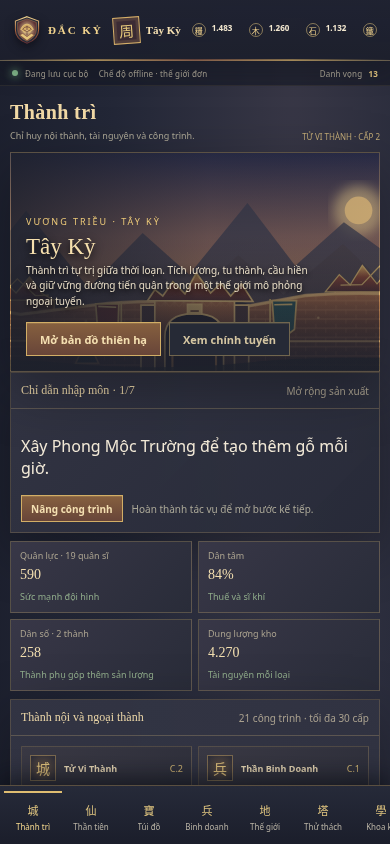
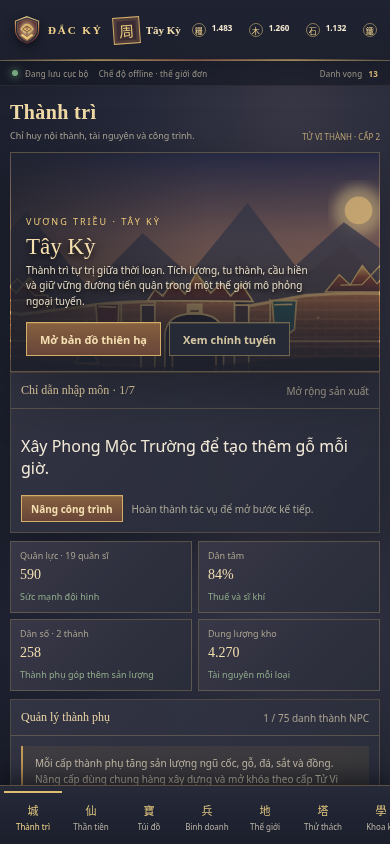
Add managed satellite city upgrades

diff --git a/DackyMobile/src/ui.js b/DackyMobile/src/ui.js
@@ -1,5 +1,5 @@
 import { BUILDINGS, CONTENT_EVIDENCE, HEROES, IMMORTAL_MOUNTAINS, ITEMS, QUESTS, RESOURCE_INFO, TECHNOLOGIES, TROOPS, WORLD_NODES, BUZHOU_FLOORS, TOWER_FLOORS } from './catalog.js';
-import { activeQuest, armyCount, armyPower, formatDuration, formatNumber, heroPower, productionPerHour, questProgress, quoteBuilding, quoteItemPurchase, quoteResearch, quoteTraining, storageCapacity, TAX_POLICIES, TUTORIAL_STEPS } from './engine.js';
+import { activeQuest, armyCount, armyPower, formatDuration, formatNumber, heroPower, productionPerHour, questProgress, quoteBuilding, quoteCityUpgrade, quoteItemPurchase, quoteResearch, quoteTraining, storageCapacity, TAX_POLICIES, TUTORIAL_STEPS } from './engine.js';
 
 export const NAV = [
   ['city','城','Thành trì','Nội thành, kinh tế và hàng đợi'],
@@ -56,7 +56,7 @@ function queueCard(label, q, now, lookupName, glyph) {
 }
 
 function queuePanel(state, now) {
-  const c = queueCard('Xây dựng', state.queues.construction, now, q => `${BUILDINGS.find(b => b.id === q.buildingId)?.name || ''} · cấp ${q.level}`, '營');
+  const c = queueCard('Xây dựng', state.queues.construction, now, q => q.cityId?`${state.cities.find(city=>city.id===q.cityId)?.name||'Thành phụ'} · cấp ${q.level}`:`${BUILDINGS.find(b => b.id === q.buildingId)?.name || ''} · cấp ${q.level}`, '營');
   const t = queueCard('Huấn luyện', state.queues.training, now, q => TROOPS.find(x => x.id === q.troopId)?.name || 'Đạo quân', '兵');
   const r = queueCard('Nghiên cứu', state.queues.research, now, q => `${TECHNOLOGIES.find(x => x.id === q.techId)?.name || ''} · cấp ${q.level}`, '學');
   const m = queueCard('Hành quân', state.queues.march, now, q => WORLD_NODES.find(x => x.id === q.nodeId)?.name || 'Ngoại vực', '騎');
@@ -86,6 +86,17 @@ function tutorialPanel(state) {
     action=button('march','Hành quân tới Thanh Khâu Quan',!count||!!state.queues.march,'button small',`data-node="${step.data.nodeId}" data-troop="${step.data.troopId}" data-count="${count}"`);
   }
   return `<section class="panel tutorial-panel">${subheading(`Chỉ dẫn nhập môn · ${state.tutorialStep+1}/${TUTORIAL_STEPS.length}`,step.title)}<div class="panel-body"><p>${esc(step.description)}</p>${action}<small class="tiny muted" style="margin-left:9px">Hoàn thành tác vụ để mở bước kế tiếp.</small></div></section>`;
+}
+
+function satelliteManagementPanel(state) {
+  const satellites=(state.cities||[]).filter(city=>!city.isCapital);
+  const rows=satellites.map(city=>{
+    const quote=quoteCityUpgrade(state,city.id);
+    const lockedLabel=quote.locked?`Cần Tử Vi Thành cấp ${Math.max(2,Math.ceil(quote.level/2)+1)}`:quote.maxed?'Đạt cấp tối đa':`${costText(quote.cost)} · ${formatDuration(quote.seconds*1000)}`;
+    const contribution=`+${fmt(city.level*25)} lương · ${fmt(city.level*18)} gỗ · ${fmt(city.level*14)} đá · ${fmt(city.level*12)} sắt · ${fmt(city.level*8)} đồng/giờ`;
+    return `<article class="inventory-item"><b>${esc(city.name)} · thành phụ cấp ${city.level}/10</b><small>${contribution}</small><small>Nâng tiếp: ${lockedLabel}</small>${button('upgradeCity','Nâng thành phụ',!!state.queues.construction||quote.maxed||quote.locked||!isAffordable(state,quote.cost),'button small',`data-city="${city.id}"`)}</article>`;
+  }).join('');
+  return `<section class="panel">${subheading('Quản lý thành phụ',`${satellites.length} / ${WORLD_NODES.filter(node=>node.kind==='Danh thành').length} danh thành NPC`)}<div class="panel-body"><div class="hint" style="margin-bottom:10px">Mỗi cấp thành phụ tăng sản lượng ngũ cốc, gỗ, đá, sắt và đồng. Nâng cấp dùng chung hàng xây dựng và mở khóa theo cấp Tử Vi Thành.</div><div class="inventory-grid">${rows||'<div class="empty-state"><strong>Chưa có thành phụ</strong>Chiếm danh thành NPC trên bản đồ để mở nguồn lực này.</div>'}</div></div></section>`;
 }
 
 function cityScreen(state, now) {
@@ -126,7 +137,7 @@ function cityScreen(state, now) {
   const production = Object.entries(RESOURCE_INFO).map(([key,r]) => `<div class="production-line"><span class="resource-glyph">${r.glyph}</span><span>${r.name}</span><b>+${fmt(prod[key])}/giờ</b></div>`).join('');
   const questBody = active ? `<div class="eyebrow">HỒI ${active.chapter} · NHIỆM VỤ MỞ ĐẦU</div><p class="quest-title">${active.title}</p><p class="tiny muted">${fmt(questProgress(state,active))} / ${fmt(active.goal)} · Thưởng ${costText(active.reward)}</p>${button('view-quests','Mở sổ nhiệm vụ',false,'button small')}` : '<div class="empty-state"><strong>Chính tuyến đã khép lại</strong>Mở rộng các thử thách PvE để tiếp tục.</div>';
   const chronicle = state.notifications.slice(0,5).map(text => `<div class="chronicle-entry"><i></i><span>${esc(text)}</span></div>`).join('') || '<span class="muted tiny">Chưa có biến động.</span>';
-  return `${cityHero}${tutorialPanel(state)}${cityOverview}<div class="city-sections"><div><section class="panel">${subheading('Thành nội và ngoại thành','21 công trình · tối đa 30 cấp')}<div class="panel-body"><div class="building-grid">${buildingCards}</div></div></section></div><aside class="city-side">${queuePanel(state,now)}<section class="panel">${subheading('Lưu chuyển tài nguyên')}<div class="panel-body"><div class="production-list">${production}</div></div></section><section class="panel">${subheading('Tin trong thành')}<div class="panel-body"><div class="chronicle">${chronicle}</div></div></section><section class="panel">${subheading('Chính tuyến')}<div class="panel-body">${questBody}</div></section></aside></div>`;
+  return `${cityHero}${tutorialPanel(state)}${cityOverview}${satelliteManagementPanel(state)}<div class="city-sections"><div><section class="panel">${subheading('Thành nội và ngoại thành','21 công trình · tối đa 30 cấp')}<div class="panel-body"><div class="building-grid">${buildingCards}</div></div></section></div><aside class="city-side">${queuePanel(state,now)}<section class="panel">${subheading('Lưu chuyển tài nguyên')}<div class="panel-body"><div class="production-list">${production}</div></div></section><section class="panel">${subheading('Tin trong thành')}<div class="panel-body"><div class="chronicle">${chronicle}</div></div></section><section class="panel">${subheading('Chính tuyến')}<div class="panel-body">${questBody}</div></section></aside></div>`;
 }
 
 function heroScreen(state, _now, uiState={}) {

diff --git a/DackyMobile/src/engine.js b/DackyMobile/src/engine.js
@@ -110,7 +110,7 @@ export function migrateSave(input, now = Date.now()) {
   const research = safeQueue(rawQueues.research);
   const march = safeQueue(rawQueues.march);
   s.queues = {
-    construction: construction&&BUILDINGS.some(b=>b.id===construction.buildingId)?{...construction,level:clamp(Number(construction.level)||1,1,30)}:null,
+    construction: construction&&(BUILDINGS.some(b=>b.id===construction.buildingId)||WORLD_NODES.some(n=>n.id===construction.cityId))?{...construction,level:clamp(Number(construction.level)||1,1,construction.cityId?10:30)}:null,
     training: training&&TROOPS.some(t=>t.id===training.troopId)?{...training,count:clamp(Number(training.count)||1,1,500)}:null,
     research: research&&TECHNOLOGIES.some(t=>t.id===research.techId)?{...research,level:clamp(Number(research.level)||1,1,30)}:null,
     march: march&&WORLD_NODES.some(n=>n.id===march.nodeId)&&march.troops&&typeof march.troops==='object'?{
@@ -141,6 +141,7 @@ export function migrateSave(input, now = Date.now()) {
     population:clamp(Number(city.population)||80,1,50_000),isCapital:city.id==='capital'
   }));
   if(!s.cities.some(city=>city.isCapital))s.cities.unshift({id:'capital',nodeId:null,name:s.profile.name,level:s.levels.citadel||1,population:s.population,isCapital:true});
+  if(s.queues.construction?.cityId&&!s.cities.some(city=>city.id===s.queues.construction.cityId&&!city.isCapital))s.queues.construction=null;
   const statDefaults={upgrades:0,troopsTrained:0,heroesRecruited:0,itemsEquipped:0,itemPurchases:0,battles:0,victories:0,citiesCaptured:0,bossesDefeated:0,duels:0,tradeCount:0};
   s.stats = s.stats && typeof s.stats === 'object' ? s.stats : {};
   for(const key of Object.keys(statDefaults))s.stats[key]=clamp(Number(s.stats[key])||0,0,99_999_999);
@@ -159,14 +160,14 @@ export function migrateSave(input, now = Date.now()) {
 export function productionPerHour(state) {
   const lv = state.levels;
   const tech = state.technologies;
-  const satelliteCount=Math.max(0,(state.cities?.length||1)-1);
+  const satelliteLevels=(state.cities||[]).filter(city=>!city.isCapital).reduce((sum,city)=>sum+city.level,0);
   const bonus = effect => 1 + (TECHNOLOGIES.filter(t => t.effect === effect).reduce((n, t) => n + (tech[t.id] || 0), 0) * 0.012);
   return {
-    food: (18 + lv.farm * 52 + lv.granary * 7 + satelliteCount*25) * bonus('food'),
-    timber: (10 + lv.grove * 38 + lv.lumber * 12 + satelliteCount*18) * bonus('timber'),
-    stone: (8 + lv.mine * 34 + lv.quarry * 10 + satelliteCount*14) * bonus('stone'),
-    iron: (5 + lv.foundryfield * 28 + lv.foundry * 9 + satelliteCount*12) * bonus('iron'),
-    gold: (10 + lv.market * 25 + satelliteCount*8 + Math.floor(state.population * (0.035 + lv.citadel * 0.002))) * bonus('gold') * TAX_POLICIES[state.taxPolicy||'balanced'].income,
+    food: (18 + lv.farm * 52 + lv.granary * 7 + satelliteLevels*25) * bonus('food'),
+    timber: (10 + lv.grove * 38 + lv.lumber * 12 + satelliteLevels*18) * bonus('timber'),
+    stone: (8 + lv.mine * 34 + lv.quarry * 10 + satelliteLevels*14) * bonus('stone'),
+    iron: (5 + lv.foundryfield * 28 + lv.foundry * 9 + satelliteLevels*12) * bonus('iron'),
+    gold: (10 + lv.market * 25 + satelliteLevels*8 + Math.floor(state.population * (0.035 + lv.citadel * 0.002))) * bonus('gold') * TAX_POLICIES[state.taxPolicy||'balanced'].income,
     jade: 0.12 + lv.altar * 0.12 + lv.manor * 0.025
   };
 }
@@ -259,6 +260,15 @@ export function quoteBuilding(state, buildingId) {
     locked: b.id !== 'citadel' && (state.levels.citadel || 0) < Math.max(1, Math.ceil(level / 2)) };
 }
 
+export function quoteCityUpgrade(state, cityId) {
+  const city=(state.cities||[]).find(row=>row.id===cityId&&!row.isCapital);
+  if(!city)return null;
+  const level=city.level+1;
+  const cost=costFor({food:280,timber:210,stone:150,gold:180},level);
+  return {level,cost,seconds:20*Math.pow(level,1.2),maxed:level>10,
+    locked:(state.levels.citadel||0)<Math.max(2,Math.ceil(level/2)+1)};
+}
+
 export function quoteTraining(state, troopId, count = 1) {
   const t = TROOPS.find(x => x.id === troopId);
   if (!t) return null;
@@ -323,9 +333,14 @@ function completeQueue(state, key, now) {
   if (!q || q.finishAt > now) return;
   state.queues[key] = null;
   if (key === 'construction') {
-    state.levels[q.buildingId] = Math.min(30, (state.levels[q.buildingId] || 0) + 1);
-    state.stats.upgrades++;
-    note(state, `${BUILDINGS.find(b => b.id === q.buildingId)?.name || 'Công trình'} đã hoàn thành cấp ${state.levels[q.buildingId]}.`);
+    if(q.cityId){
+      const city=state.cities.find(row=>row.id===q.cityId&&!row.isCapital);
+      if(city){city.level=Math.min(10,q.level);state.stats.upgrades++;note(state,`${city.name} đã hoàn thành nâng cấp thành phụ cấp ${city.level}.`);}
+    }else{
+      state.levels[q.buildingId] = Math.min(30, (state.levels[q.buildingId] || 0) + 1);
+      state.stats.upgrades++;
+      note(state, `${BUILDINGS.find(b => b.id === q.buildingId)?.name || 'Công trình'} đã hoàn thành cấp ${state.levels[q.buildingId]}.`);
+    }
   } else if (key === 'training') {
     state.army[q.troopId] = (state.army[q.troopId] || 0) + q.count;
     state.stats.troopsTrained += q.count;
@@ -486,6 +501,19 @@ export function doAction(state, action, now = Date.now()) {
       const techSpeed = 1 + (s.technologies['tech-08'] || 0) * 0.025;
       s.queues.construction = { buildingId: b.id, level: nextLevel, cost, startAt: now, finishAt: now + b.seconds * Math.pow(nextLevel, 1.2) * 1000 / techSpeed };
       note(s, `Thợ xây bắt đầu nâng ${b.name} lên cấp ${nextLevel}.`);
+      break;
+    }
+    case 'upgradeCity': {
+      if(s.queues.construction)throw new Error('Hàng đợi xây dựng đang bận.');
+      const city=(s.cities||[]).find(row=>row.id===action.cityId&&!row.isCapital);
+      if(!city)throw new Error('Không tìm thấy thành phụ đã chiếm đóng.');
+      const quote=quoteCityUpgrade(s,city.id);
+      if(quote.maxed)throw new Error('Thành phụ đã đạt cấp tối đa.');
+      if(quote.locked)throw new Error(`Cần Tử Vi Thành cấp ${Math.max(2,Math.ceil(quote.level/2)+1)} để nâng thành phụ.`);
+      debit(s,quote.cost);
+      const speed=1+(s.technologies['tech-08']||0)*0.025;
+      s.queues.construction={cityId:city.id,level:quote.level,cost:quote.cost,startAt:now,finishAt:now+quote.seconds*1000/speed};
+      note(s,`Bắt đầu nâng ${city.name} lên thành phụ cấp ${quote.level}.`);
       break;
     }
     case 'train': {

diff --git a/DackyMobile/tests/engine.test.js b/DackyMobile/tests/engine.test.js
@@ -230,6 +230,25 @@ test('captured NPC cities become productive offline settlements', () => {
   assert.ok(productionPerHour(state).food>=before+25);
 });
 
+test('satellite cities upgrade through the construction queue and add production per level', () => {
+  const now=1_800_000_000_000;
+  let state=createNewGame('Triều Ca',now);
+  state.cities.push({id:'node-001',nodeId:'node-001',name:'Thanh Khâu Quan',level:1,population:80,isCapital:false});
+  const before=productionPerHour(state);
+  state=doAction(state,{type:'upgradeCity',cityId:'node-001'},now+1);
+  assert.equal(state.queues.construction.cityId,'node-001');
+  assert.equal(state.queues.construction.level,2);
+  assert.equal(migrateSave(state,now+2).queues.construction.cityId,'node-001');
+  state=advance(state,state.queues.construction.finishAt+1).state;
+  assert.equal(state.cities.find(city=>city.id==='node-001').level,2);
+  assert.equal(state.stats.upgrades,1);
+  assert.ok(productionPerHour(state).food>=before.food+25);
+  assert.ok(productionPerHour(state).timber>=before.timber+18);
+  assert.throws(()=>doAction(state,{type:'upgradeCity',cityId:'capital'},state.lastTickAt+1),/Không tìm thấy thành phụ/);
+  const locked=structuredClone(state);locked.levels.citadel=1;
+  assert.throws(()=>doAction(locked,{type:'upgradeCity',cityId:'node-001'},state.lastTickAt+1),/Cần Tử Vi Thành cấp 3/);
+});
+
 test('save import normalizes malformed inventory and retains named cities', () => {
   const imported=migrateSave({
     version:1,profile:{name:'  Tây Kỳ  '},resources:{food:-100,unknown:999},levels:{citadel:500},

diff --git a/DackyMobile/src/main.js b/DackyMobile/src/main.js
@@ -138,6 +138,7 @@ document.body.addEventListener('click', async event => {
       renderCurrent();
       return;
     case 'upgrade': return perform('upgrade',{buildingId:button.dataset.building});
+    case 'upgradeCity': return perform('upgradeCity',{cityId:button.dataset.city});
     case 'setTaxPolicy': return perform('setTaxPolicy',{policy:button.dataset.policy});
     case 'train': return perform('train',{troopId:document.querySelector('#train-unit')?.value||button.dataset.troop,count:document.querySelector('#train-count')?.value||button.dataset.count});
     case 'trainHero': return perform('trainHero',{heroId:button.dataset.hero});

diff --git a/DackyMobile/PROGRESS.md b/DackyMobile/PROGRESS.md
@@ -4,7 +4,7 @@ Cập nhật: 2026-11-24 · Nhánh: feature/dacky-mobile-complete-20261124
 
 ## Checkpoint
 
-- HEAD lúc bắt đầu: 4023325d441a7f818f7346586b1ee6e19943a5cc (origin/feature/dacky-mobile-complete-20261124). Các checkpoint gần: 319480ff27224f26c6d6283bbc7fd738dd3b520f, bc8b3bc6e6fe91e2f15e2e73114f438ce26f6fe3; batch khoa kỹ bắt đầu tại bc8b3bc6e6fe91e2f15e2e73114f438ce26f6fe3 và batch tutorial hiện tại tại 0fb5cf62a64af15703e96c95d2444e6f7331216e.
+- HEAD lúc bắt đầu: 4023325d441a7f818f7346586b1ee6e19943a5cc (origin/feature/dacky-mobile-complete-20261124). Các checkpoint gần: 319480ff27224f26c6d6283bbc7fd738dd3b520f, bc8b3bc6e6fe91e2f15e2e73114f438ce26f6fe3, 0fb5cf62a64af15703e96c95d2444e6f7331216e; batch tutorial bắt đầu tại 0fb5cf62a64af15703e96c95d2444e6f7331216e, batch thành phụ hiện tại tại 86dce96e1247f4e927b9037d85febd8defc848e0.
 - Codebase web độc lập, offline-first: thành trì, sáu tài nguyên, 21 công trình tới cấp 30, sản xuất theo giờ, queue xây/nghiên cứu/huấn luyện/hành quân, 39 binh chủng mô phỏng, đủ 540 thần tiên mô phỏng, túi đồ/rèn, khoa kỹ, 1.158 nhiệm vụ, 120 địa điểm chiến dịch có Boss Trụ Vương và 624 Tiên Sơn thử thách riêng, chiến báo, Phong Thần Tháp và 5 cửa Bất Chu.
 - Chiến dịch mô phỏng có 8 chương, 1.158 mục tiêu, mở Boss Trụ Vương sau 20 thắng/7 thành; thắng đầu lưu cờ kết cục, thưởng duy nhất và cho phép tiếp tục endgame.
 - Gameplay loop đã nối: nâng công trình → huấn luyện/chiêu mộ/trang bị → hành quân nhiều stack → combat/tổn thất/loot → nâng cấp/nhiệm vụ → save/reload. Capture thành phụ, sản lượng bổ sung, minh hội NPC và minh ước NPC có runtime. Mô hình gameplay là độc lập `SIMULATED`, chưa đối chiếu client Mobile.
@@ -12,12 +12,13 @@ Cập nhật: 2026-11-24 · Nhánh: feature/dacky-mobile-complete-20261124
 - Lô hiện tại nối 540 vật phẩm tiêu hao vào cửa hàng NPC, giới hạn túi 500, hiệu ứng mua/dùng và lưu số lượt mua; XP tự lên nhiều cấp và tăng kỹ năng; bốn pháp môn có hiệu lực trong combat/PvE; ba chính sách thuế điều chỉnh đồng, dân tâm và tăng dân số.
 - Khoa kỹ 19 nhánh/570 cấp nay tác động vào kinh tế, xây dựng, huấn luyện, quân chuyên môn, combat, hồi phục, hành quân, thần tiên, trinh sát và giao thương/ngoại giao.
 - Chỉ dẫn tân thủ 7 mốc tự kiểm tra tiến trình xây/nghiên cứu/chiêu mộ/trang bị/huấn luyện/chiến đấu; các nút hướng dẫn thực thi gameplay thật và chỉ tiến bước khi đạt điều kiện.
+- Thành phụ đã có giao diện quản lý, nâng cấp qua hàng xây dựng, mở theo cấp Tử Vi và tăng năm loại sản lượng theo cấp.
 
 ## Kiểm chứng thực tế
 
-- `npm test`: PASS 17/17 engine tests, gồm tutorial đầu-cuối, catalog, Tiên Sơn/Boss, mua/dùng vật phẩm, XP-kỹ năng, pháp môn combat, 19 nhánh khoa kỹ và thuế/dân tâm.
+- `npm test`: PASS 18/18 engine tests, gồm tutorial đầu-cuối, thành phụ, catalog, Tiên Sơn/Boss, mua/dùng vật phẩm, XP-kỹ năng, pháp môn combat, 19 nhánh khoa kỹ và thuế/dân tâm.
 - `npm run build`: PASS; build Web, `dist/offline.html` và `dist/data/dacky-game-data.simulated.v1.json`; kiểm tra JSON xác nhận 4.676 record SIMULATED trên 8 bảng.
-- Chromium integration: PASS onboarding và thẻ chỉ dẫn, 21 công trình, 11 màn hình, đổi chính sách thuế, phân trang/mua vật phẩm, nâng công trình, chiêu mộ, trang bị, huấn luyện, hành quân nhiều stack, loot/chiến báo, IndexedDB reload, viewport 390×844 và 844×390; 0 lỗi console/runtime. Ảnh ở `qa/screenshots/`.
+- Chromium integration: PASS onboarding và thẻ chỉ dẫn, 21 công trình, quản lý thành phụ đã chiếm, 11 màn hình, đổi chính sách thuế, phân trang/mua vật phẩm, nâng công trình, chiêu mộ, trang bị, huấn luyện, hành quân nhiều stack, loot/chiến báo, IndexedDB reload, viewport 390×844 và 844×390; 0 lỗi console/runtime. Ảnh ở `qa/screenshots/`.
 - PWA: PASS mở lại entrypoint khi tắt mạng và shell đã được cache.
 - Hạn chế môi trường: Chromium trả `chrome-error://chromewebdata/` với URL `file://.../offline.html`; bundle inline đã qua syntax check. Thiếu Android SDK/Gradle nên APK/AAB chưa build. Không tuyên bố V1.0 hoàn thành.
 
@@ -34,7 +35,7 @@ Cập nhật: 2026-11-24 · Nhánh: feature/dacky-mobile-complete-20261124
 
 ## Bước tiếp theo
 
-1. Hoàn thiện điều kiện mở khóa, quản lý/nâng cấp thành phụ và độ dài campaign; cân bằng runtime theo nhịp tiến triển đầu đến cuối game.
+1. Mở rộng campaign NPC, nội dung nhiệm vụ và hướng đi endgame; cân bằng tốc độ từ đầu game tới Boss Trụ Vương và tiếp tục chinh phục.
 2. Khi có Android SDK/Gradle, tạo project Capacitor native, build/cài APK và kiểm tra luồng cốt lõi.
 3. Khi dữ liệu nguồn được cung cấp hoặc proxy cho phép, xác minh Mobile riêng, nhập dữ liệu hợp pháp và cập nhật `DATA_COVERAGE.json`.
 4. Giữ nhánh feature/dacky-mobile-complete-20261124 làm checkpoint hiện tại. Tiếp tục bằng các mục P0–P7 còn mở; không merge, không force-push, không đụng Heroes/Mưu Định Tam Quốc.

diff --git a/DackyMobile/docs/GAMEPLAY_WIKI.md b/DackyMobile/docs/GAMEPLAY_WIKI.md
@@ -21,7 +21,7 @@ Tử Vi Thành quản lý cấp thành, dân số và mở khóa. Hai mươi cô
 | Huyền Vũ Thành, Thiên Lý Đài | Phòng thủ và tốc độ hành quân (mô phỏng) |
 | Bát Phương Quán, Vạn Lý Trạm | Ngoại giao NPC và giao thương offline |
 
-Chính sách thuế có ba mức mô phỏng: khoan giảm tạo 75% đồng cơ sở và phục hồi 0,12 dân tâm/giờ; trung dung là mức chuẩn; thuế nặng tạo 130% đồng nhưng giảm 0,24 dân tâm/giờ. Dân tâm và cấp Tử Vi Thành cùng điều chỉnh tốc độ tăng dân số. Chính sách được lưu và vẫn áp dụng trong tiến trình offline.
+Chính sách thuế có ba mức mô phỏng: khoan giảm tạo 75% đồng cơ sở và phục hồi 0,12 dân tâm/giờ; trung dung là mức chuẩn; thuế nặng tạo 130% đồng nhưng giảm 0,24 dân tâm/giờ. Dân tâm và cấp Tử Vi Thành cùng điều chỉnh tốc độ tăng dân số. Chính sách được lưu và vẫn áp dụng trong tiến trình offline. Mỗi danh thành chiếm được trở thành thành phụ; có thể nâng đến cấp 10 qua hàng xây dựng để tăng sản lượng cả năm tài nguyên, với cấp Tử Vi Thành mở khóa từng mốc.
 
 Thái Học Viện có 19 nhánh, mỗi nhánh 30 cấp. Nông/Lâm/Khai Sơn/Luyện Kim và Trị Thủy tăng sản xuất; Thị Thương tăng thu đồng; Quản Dân tăng dân số; Kiến Trúc, Cơ Quan và Binh Pháp rút ngắn thời gian xây, huấn luyện và tăng lực quân. Thủ Thành, Kỵ Thuật, Cung Nỏ, Y Đạo, Trận Đồ, Dịch Trạm, Luyện Khí, Tinh Tượng và Ngoại Giao lần lượt thay đổi phòng thủ, nhóm quân, hồi phục, tương khắc, hành quân, thần tiên, do thám và phí/tỷ lệ giao thương với NPC. Mọi hệ số là SIMULATED.
 

diff --git a/DackyMobile/DECISIONS.md b/DackyMobile/DECISIONS.md
@@ -25,3 +25,4 @@
 - Thuế khoan giảm / trung dung / nặng thay đổi thu đồng, độ trôi dân tâm và tốc độ dân số; save cũ được migration về trung dung.
 - Cả 19 nhánh khoa kỹ có hiệu ứng runtime: bốn tài nguyên, tăng dân số, xây/nghiên cứu/huấn luyện, tấn công/phòng thủ và chuyên môn kỵ/xạ, hồi thương, tương khắc, hành quân, lực chiến thần tiên, phí trinh sát và giao thương/ngoại giao. Các hệ số hiển thị đúng theo nhánh và đều SIMULATED.
 - Chỉ dẫn tân thủ có bảy mốc dựa trên trạng thái gameplay đã lưu. Các hành động đề xuất gọi cùng action runtime và bước kế tiếp chỉ mở sau khi queue/trận thật hoàn tất; save cũ tự xác định lại bước từ thành tựu, không thể nhấn để bỏ qua.
+- Danh thành chiếm đóng trở thành thành phụ có thể nâng tới cấp 10 qua cùng hàng xây dựng; cấp thành phụ tăng cả năm sản lượng, và điều kiện Tử Vi Thành giới hạn cấp tiếp theo. Save queue xác thực thành phụ thuộc danh sách thành đã chiếm.
